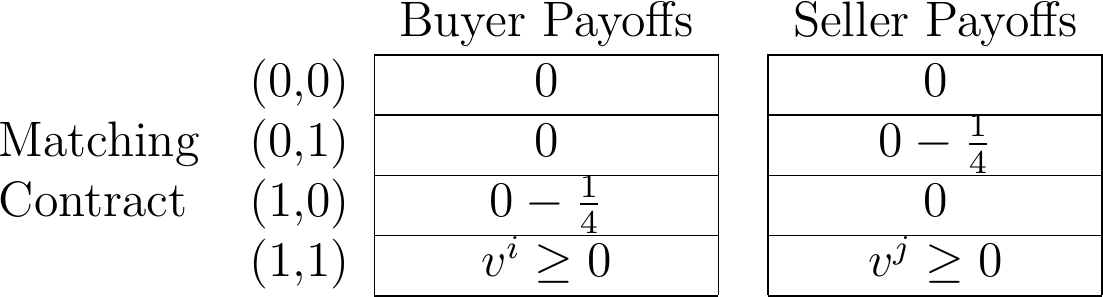
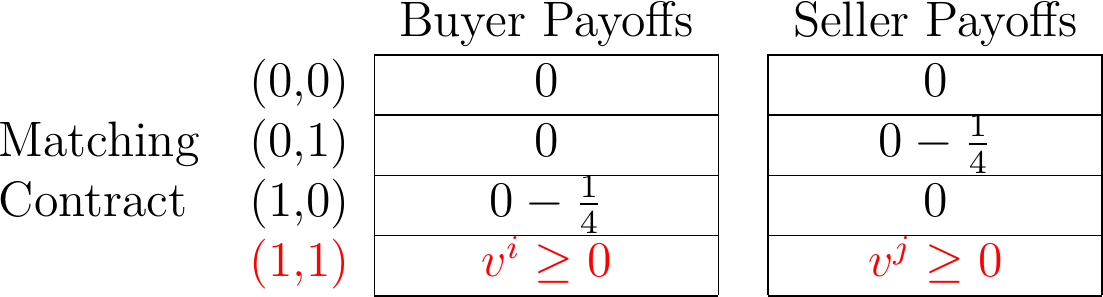
me

diff --git a/docs/slides/tikz_charts/jmp.tex b/docs/slides/tikz_charts/jmp.tex
@@ -316,7 +316,7 @@ $ $
 		& \multicolumn{1}{c|}{(0,0)} & \multicolumn{1}{c|}{$ 0$} & \multicolumn{1}{c|}{} & \multicolumn{1}{c|}{$ 0$} \\ \cline{3-3} \cline{5-5} 
 		Matching & \multicolumn{1}{c|}{(0,1)} & \multicolumn{1}{c|}{$0$} & \multicolumn{1}{c|}{} & \multicolumn{1}{c|}{$0 -\frac{1}{4}$}  \\ \cline{3-3} \cline{5-5} 
 		Contract& \multicolumn{1}{c|}{(1,0)} & \multicolumn{1}{c|}{$ 0 - \frac{1}{4}$} & \multicolumn{1}{c|}{} & \multicolumn{1}{c|}{$ 0$} \\ \cline{3-3} \cline{5-5} 
-		& \multicolumn{1}{c|}{(1,1)} & \multicolumn{1}{c|}{$ v^i\geq0$} & \multicolumn{1}{c|}{} & \multicolumn{1}{c|}{$ v^j\geq 0$} \\ \cline{3-3} \cline{5-5} 
+		& \multicolumn{1}{c|}{\textcolor{red}{(1,1)}} & \multicolumn{1}{c|}{$ \textcolor{red}{v^i\geq0}$} & \multicolumn{1}{c|}{} & \multicolumn{1}{c|}{$\textcolor{red}{v^j\geq 0}$} \\ \cline{3-3} \cline{5-5} 
 	\end{tabular}
 \end{table}
 
